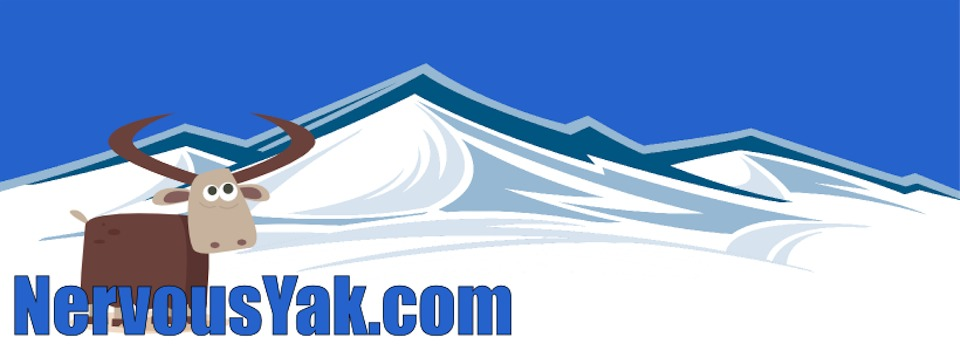
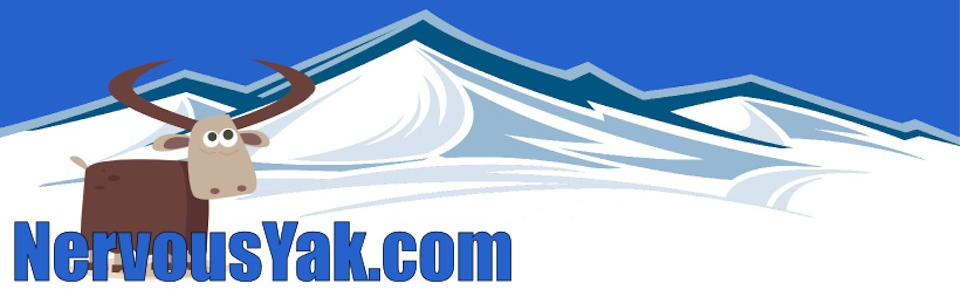
Made headers height smaller

diff --git a/public/stylesheets/style_header.css b/public/stylesheets/style_header.css
@@ -3,7 +3,7 @@
 }
 
 #header_start{
-  height:344px;
+  height:290px;
   background-image:url('../images/header.png');
 }
 
